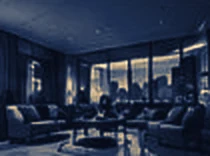
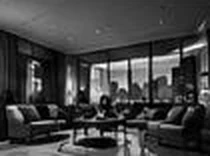
Put the photos back exactly as they were
Restores the original images, the black-and-white filter and the original
hero shading, matching d978ff1.

diff --git a/src/styles.css b/src/styles.css
@@ -947,6 +947,7 @@ footer ul.social { display: flex; flex-wrap: wrap; gap: 14px; margin-top: 16px; 
    ============================================================ */
 html { font-stretch: 125%; } /* only Archivo has a width axis; Inter ignores it */
 body { background: var(--bg); color: var(--fg); transition: background .3s ease, color .3s ease; }
+img { filter: grayscale(1) contrast(1.05); }
 .bg-glow { display: none; }
 .bg-grid { opacity: .3; }
 
@@ -1053,12 +1054,7 @@ footer .motto { text-transform: uppercase; }
 /* ---------- Home hero ---------- */
 .home-hero { min-height: min(100vh, 980px); justify-content: flex-end; padding: 150px 0 80px; }
 .home-hero .hero-media img { opacity: 1; transform: none; }
-/* Shade the text side, and let the colour photo show on the right. */
-.home-hero .hero-shade {
-  background:
-    linear-gradient(90deg, rgba(5,5,5,.8) 0%, rgba(5,5,5,.55) 50%, rgba(5,5,5,.2) 100%),
-    linear-gradient(180deg, rgba(5,5,5,.35) 0%, transparent 25%, transparent 70%, var(--bg) 100%);
-}
+.home-hero .hero-shade { background: linear-gradient(180deg, rgba(5,5,5,.72), rgba(5,5,5,.84) 60%, var(--bg)); }
 .home-hero .hero-shade::after { display: none; }
 .mega { font-size: clamp(44px, 8.6vw, 124px); max-width: 12ch; margin: 0 0 26px; }
 .mega u { text-decoration-thickness: 3px; text-underline-offset: .12em; text-decoration-skip-ink: none; }
@@ -1403,7 +1399,7 @@ footer .motto { text-transform: uppercase; }
 :root[data-theme="light"] .hero-shade,
 :root[data-theme="light"] .home-hero .hero-shade {
   background:
-    linear-gradient(90deg, rgba(243,243,241,.92) 0%, rgba(243,243,241,.7) 45%, rgba(243,243,241,.25) 100%),
+    linear-gradient(90deg, rgba(243,243,241,.94) 0%, rgba(243,243,241,.82) 45%, rgba(243,243,241,.55) 100%),
     linear-gradient(180deg, rgba(243,243,241,.4) 0%, transparent 30%, transparent 70%, var(--bg) 100%);
 }
 :root[data-theme="light"] .hero-shade::after { display: none; }
